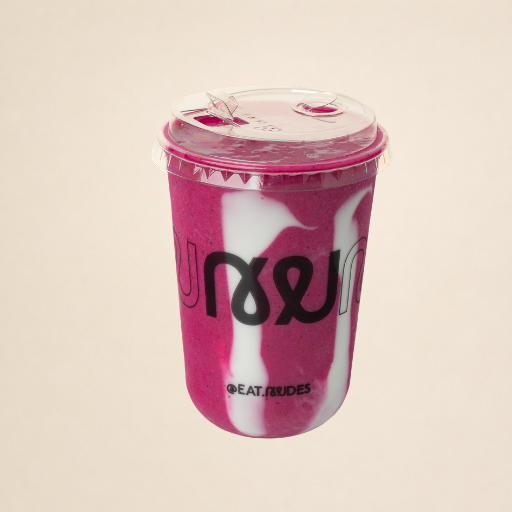
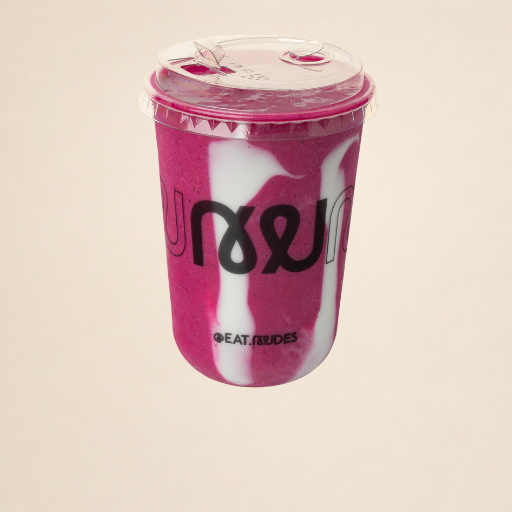
Refresh mobile smoothie images

Changed region(s): [[0.2812, 0.0625, 0.7812, 0.875]]

diff --git a/products.html b/products.html
@@ -523,9 +523,6 @@
         width: 100%;
         height: 100%;
       }
-      #smoothies .prod-card__img picture img {
-        transform: translateY(-10px);
-      }
       #smoothies .prod-card:nth-child(10) { order: 1; }
       #smoothies .prod-card:nth-child(11) { order: 2; }
       #smoothies .prod-card:nth-child(1) { order: 3; }
